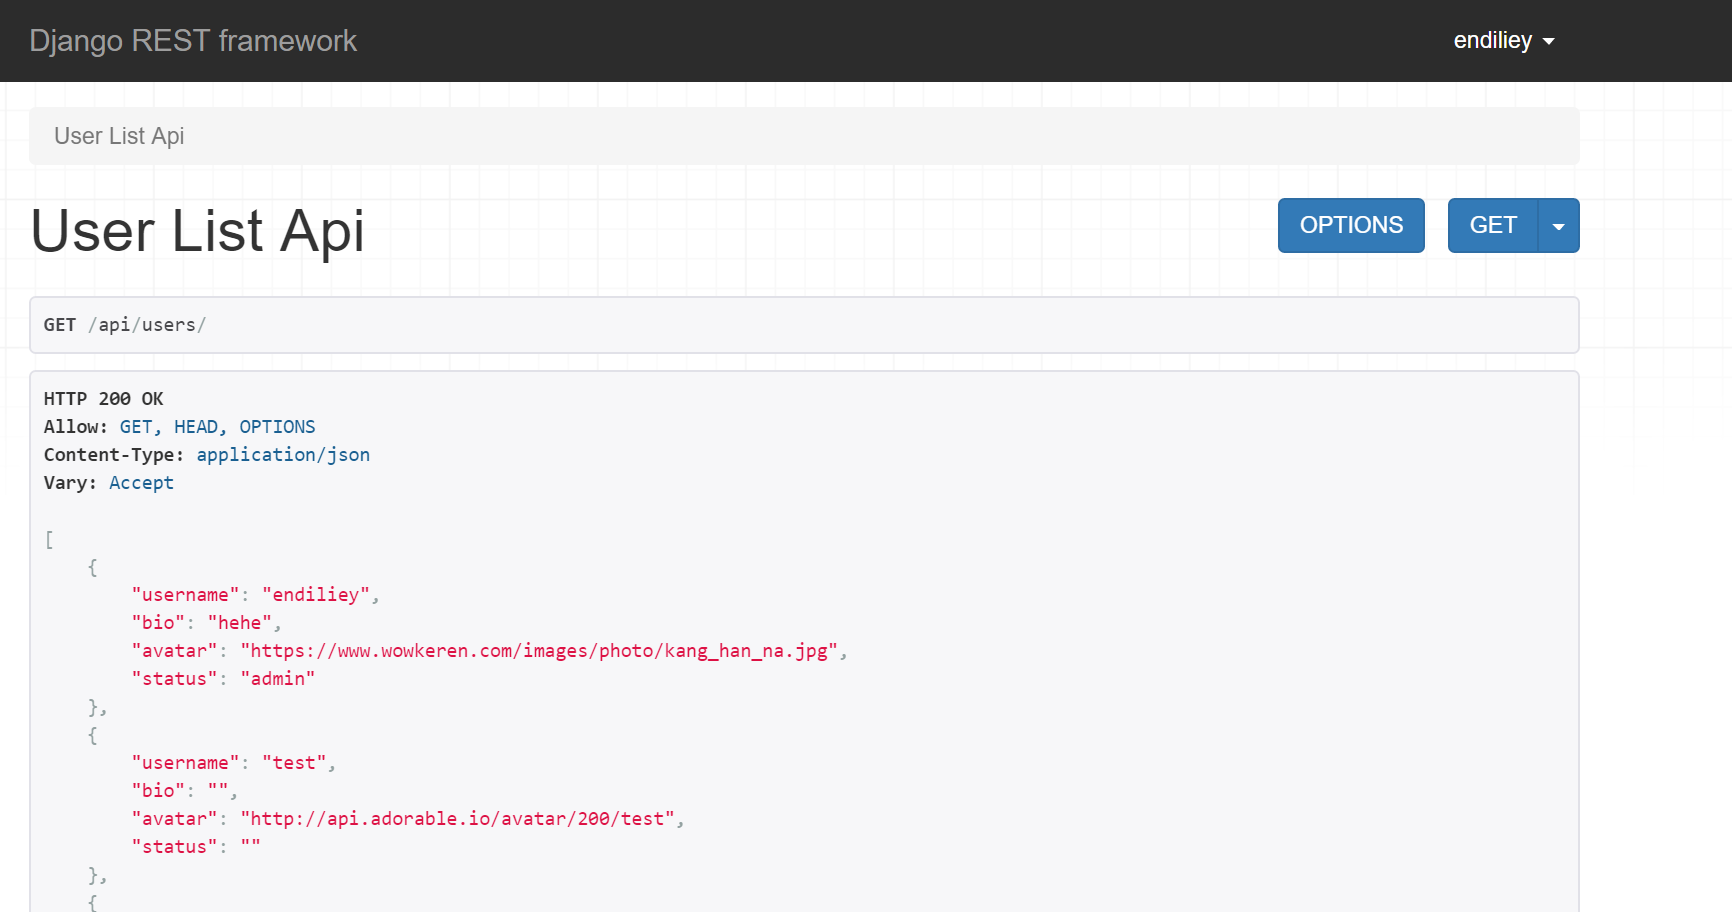
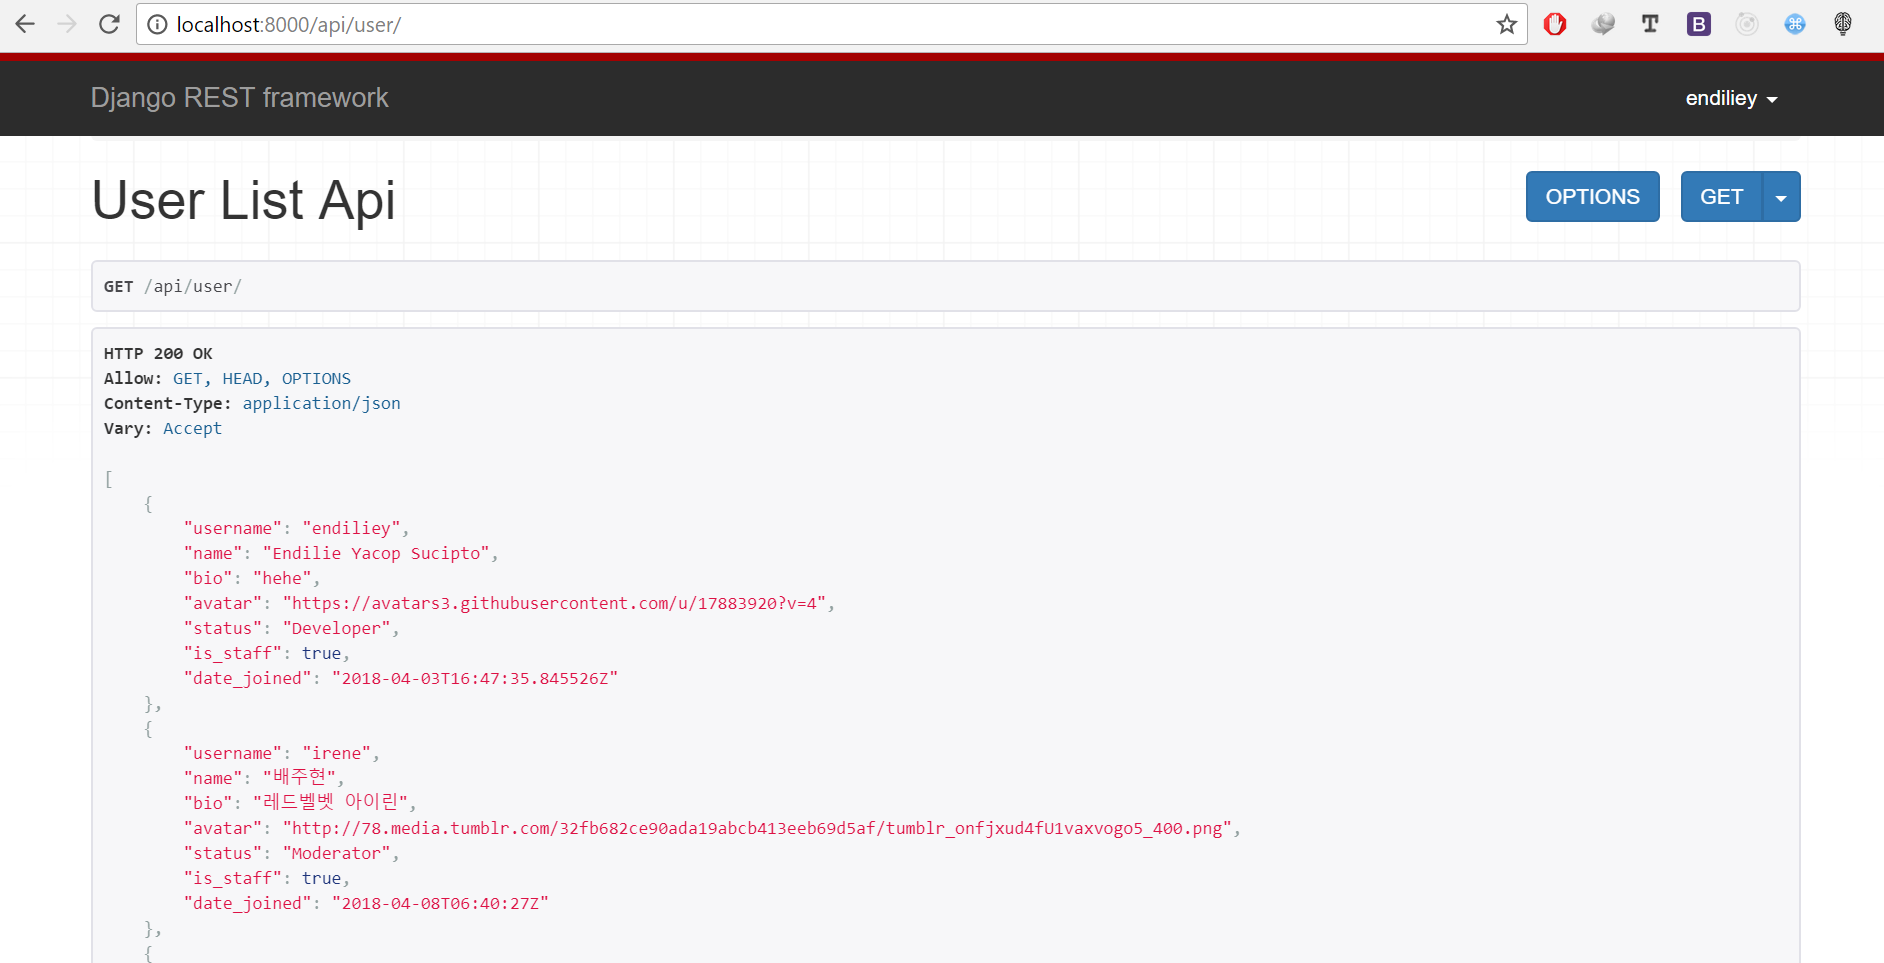
implement users page & update readme

Changed region(s): [[0.0, 0.0, 1.0, 0.2763], [0.0, 0.1842, 0.9042, 0.9518], [0.53, 0.8596, 0.6547, 0.8904]]

diff --git a/frontend/src/containers/users/index.js b/frontend/src/containers/users/index.js
@@ -1,0 +1,83 @@
+import React, { Component } from 'react';
+import { connect } from 'react-redux';
+import {
+  fetchUsers
+} from '../../api';
+import Loader from '../../components/loader';
+import UserCard from '../../components/usercard';
+import './styles.css';
+
+class Users extends Component {
+  componentDidMount() {
+    this.props.fetchUsers();
+  }
+
+  render() {
+    const {
+      isLoading,
+      error,
+      users
+    } = this.props;
+
+    if (isLoading) {
+      return (
+        <div className="users-loading">
+          <Loader />
+          <br /><br />
+          Loading users ...
+          <br /><br />
+        </div>
+      );
+    } else if (error || !users) {
+        return (
+          <div className="users-error">
+            {error || "Error"}
+          </div>
+        );
+    }
+
+    const userCardList = users.map((user) => {
+      const {
+        name,
+        username,
+        avatar,
+        is_staff
+      } = user;
+
+      return (
+        <div className="userCard">
+          <UserCard
+            username={username}
+            name={name}
+            avatar={avatar}
+            isStaff={is_staff}
+          />
+        </div>
+      );
+    });
+    return (
+      <div className="usersContainer">
+        {userCardList}
+      </div>
+    );
+  }
+}
+
+const mapStateToProps = (state) => ({
+  isLoading: state.users.isLoading,
+  users: state.users.users,
+  error: state.users.error
+});
+
+const mapDispatchToProps = (dispatch) => ({
+  fetchUsers: () => {
+    dispatch(fetchUsers());
+  }
+});
+
+const UsersContainer = connect(
+  mapStateToProps,
+  mapDispatchToProps
+)(Users);
+
+export default UsersContainer;

diff --git a/frontend/src/api/user.js b/frontend/src/api/user.js
@@ -16,7 +16,10 @@ import {
   registerFailure,
   fetchUserProfileRequest,
   fetchUserProfileSuccess,
-  fetchUserProfileFailure
+  fetchUserProfileFailure,
+  fetchUsersRequest,
+  fetchUsersSuccess,
+  fetchUsersFailure
 } from '../actions';
 
 export const getConfig = () => {
@@ -114,5 +117,23 @@ export const fetchUserProfile = username => dispatch => {
       errorMessage = "User: " + error.response.data.detail;
     }
     dispatch(fetchUserProfileFailure(errorMessage));
+  });
+};
+
+export const fetchUsers = () => dispatch => {
+  dispatch(fetchUsersRequest());
+
+  axios.get(USER_URL)
+  .then(function (response) {
+    dispatch(fetchUsersSuccess(response.data));
+  })
+  .catch(function (error) {
+    let errorMessage = "Unknown Error";
+    if (!error.response) {
+      errorMessage = "Error: Network Error";
+    } else if (error.response.data.detail){
+      errorMessage = "Users: " + error.response.data.detail;
+    }
+    dispatch(fetchUsersFailure(errorMessage));
   });
 };

diff --git a/frontend/src/index.js b/frontend/src/index.js
@@ -11,6 +11,7 @@ import store, { persistor } from './store';
 import HeaderContainer from './containers/header';
 import ModalContainer from './containers/modal';
 import UserProfileContainer from './containers/userprofile';
+import UsersContainer from './containers/users';
 import NotFoundPage from './components/notfoundpage';
 import registerServiceWorker from './registerServiceWorker';
 
@@ -22,7 +23,7 @@ ReactDOM.render(
           <div>
             <HeaderContainer />
             <Switch>
-              <Route path="/users" component={App} />
+              <Route path="/users" component={UsersContainer} />
               <Route path="/user/:username" component={UserProfileContainer} />
               <Route exact path="/" component={App} />
               <Route component={NotFoundPage} />

diff --git a/frontend/src/reducers/users.js b/frontend/src/reducers/users.js
@@ -1,0 +1,37 @@
+import {
+  FETCH_USERS_REQUEST,
+  FETCH_USERS_SUCCESS,
+  FETCH_USERS_FAILURE
+} from '../actions/types';
+
+const initialState = {
+  isLoading: false,
+  users: null,
+  error: null
+};
+
+const users = (state = initialState, action) => {
+  switch(action.type) {
+    case FETCH_USERS_REQUEST:
+      return {
+        ...state,
+        isLoading: true
+      };
+    case FETCH_USERS_SUCCESS:
+      return {
+        isLoading: false,
+        users: action.users,
+        error: null
+      };
+    case FETCH_USERS_FAILURE:
+      return {
+        isLoading: false,
+        users: null,
+        error: action.error
+      };
+    default:
+      return state;
+  }
+};
+
+export default users;

diff --git a/frontend/src/containers/users/styles.css b/frontend/src/containers/users/styles.css
@@ -1,0 +1,28 @@
+.usersContainer {
+  display: flex;
+  flex-direction: row;
+  flex-wrap: wrap;
+  margin-top: 20px;
+  margin-left: auto;
+  margin-right: auto;
+  justify-content: center;
+}
+
+.users-loading {
+  margin-top: 100px;
+  text-align: center;
+}
+
+.users-error {
+  margin-top: 20px;
+  color: rgba(231, 76, 60,1.0);
+  font-size: 12px;
+  font-weight: bold;
+  text-align: center;
+}
+
+.usersContainer .userCard {
+  margin:25px 50px;
+  width: 128px;
+  font-size: 12px;
+}

diff --git a/frontend/src/actions/users.js b/frontend/src/actions/users.js
@@ -1,0 +1,25 @@
+import {
+  FETCH_USERS_REQUEST,
+  FETCH_USERS_SUCCESS,
+  FETCH_USERS_FAILURE
+} from './types';
+
+export const fetchUsersRequest = () => {
+  return {
+    type: FETCH_USERS_REQUEST,
+  };
+};
+
+export const fetchUsersSuccess = (data) => {
+  return {
+    type: FETCH_USERS_SUCCESS,
+    users: data
+  };
+};
+
+export const fetchUsersFailure = (error) => {
+  return {
+    type: FETCH_USERS_FAILURE,
+    error
+  };
+};

diff --git a/frontend/src/actions/types.js b/frontend/src/actions/types.js
@@ -13,3 +13,6 @@ export const FETCH_USER_PROFILE_FAILURE = "FETCH_USER_PROFILE_FAILURE";
 export const FETCH_HOME_REQUEST = "FETCH_HOME_REQUEST";
 export const FETCH_HOME_SUCCESS = "FETCH_HOME_SUCCESS";
 export const FETCH_HOME_FAILURE = "FETCH_HOME_FAILURE";
+export const FETCH_USERS_REQUEST = "FETCH_USERS_REQUEST";
+export const FETCH_USERS_SUCCESS = "FETCH_USERS_SUCCESS";
+export const FETCH_USERS_FAILURE = "FETCH_USERS_FAILURE";

diff --git a/frontend/src/reducers/index.js b/frontend/src/reducers/index.js
@@ -4,13 +4,15 @@ import modal from './modal';
 import register from './register';
 import userProfile from './userprofile';
 import home from './home';
+import users from './users';
 
 const rootReducer = combineReducers({
   auth,
   modal,
   register,
   userProfile,
-  home
+  home,
+  users
 });
 
 export default rootReducer;

diff --git a/frontend/src/actions/index.js b/frontend/src/actions/index.js
@@ -4,3 +4,4 @@ export * from './modal';
 export * from './register';
 export * from './userprofile';
 export * from './home';
+export * from './users';

diff --git a/backend/accounts/api/views.py b/backend/accounts/api/views.py
@@ -48,7 +48,7 @@ class UserUpdateAPIView(generics.UpdateAPIView):
 class UserListAPIView(generics.ListAPIView):
     queryset = User.objects.all()
     serializer_class = UserListSerializer
-    permission_classes = [IsAdminUser]
+    permission_classes = [AllowAny]
 
 class UserLoginAPIView(views.APIView):
     permission_classes = [AllowAny]

diff --git a/README.md b/README.md
@@ -80,7 +80,7 @@ python manage.py test
 ```
 
 Then run the server, endpoint should be available on http://localhost:8000/
-For example, browseable user login API available on http://localhost:8000/api/users/login/
+For example, browseable user login API available on http://localhost:8000/api/user/login/
 ```
 cd backend
 python manage.py runserver
